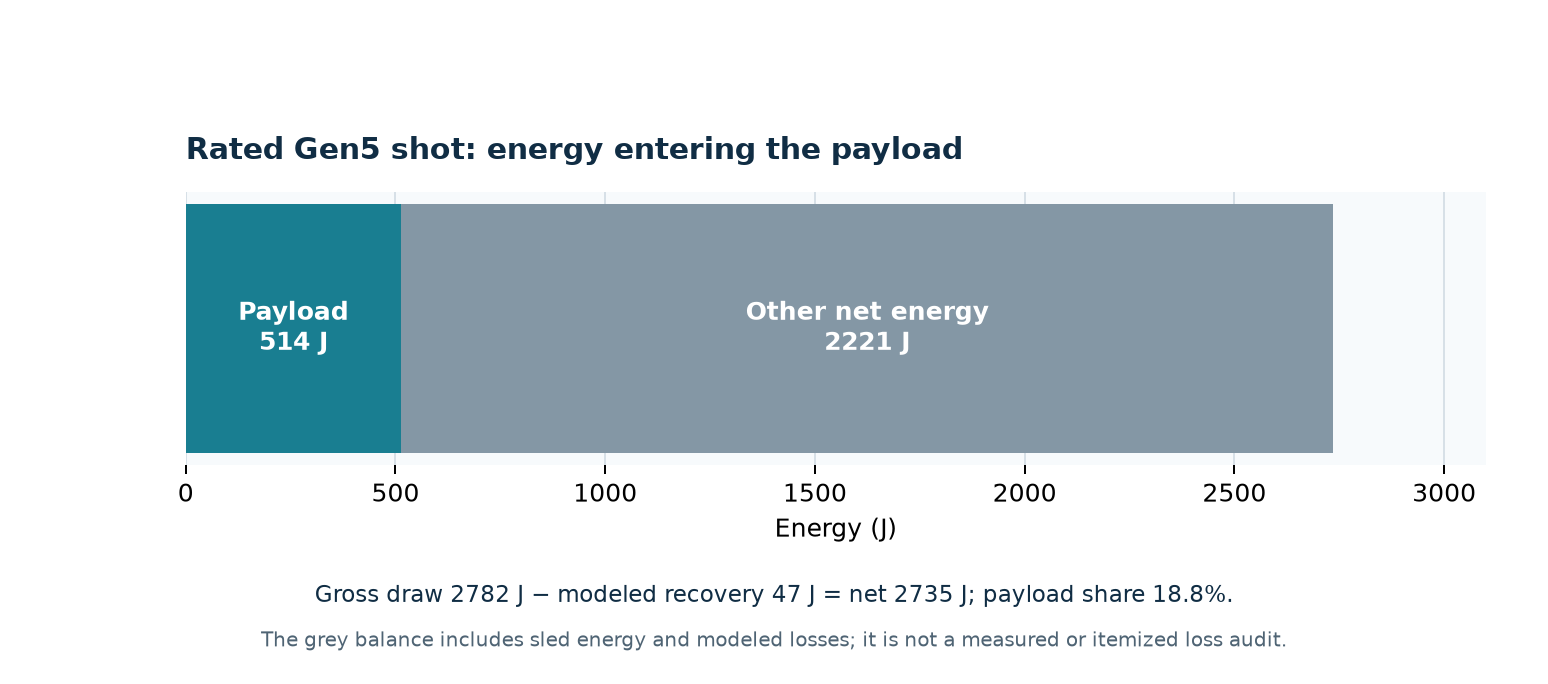
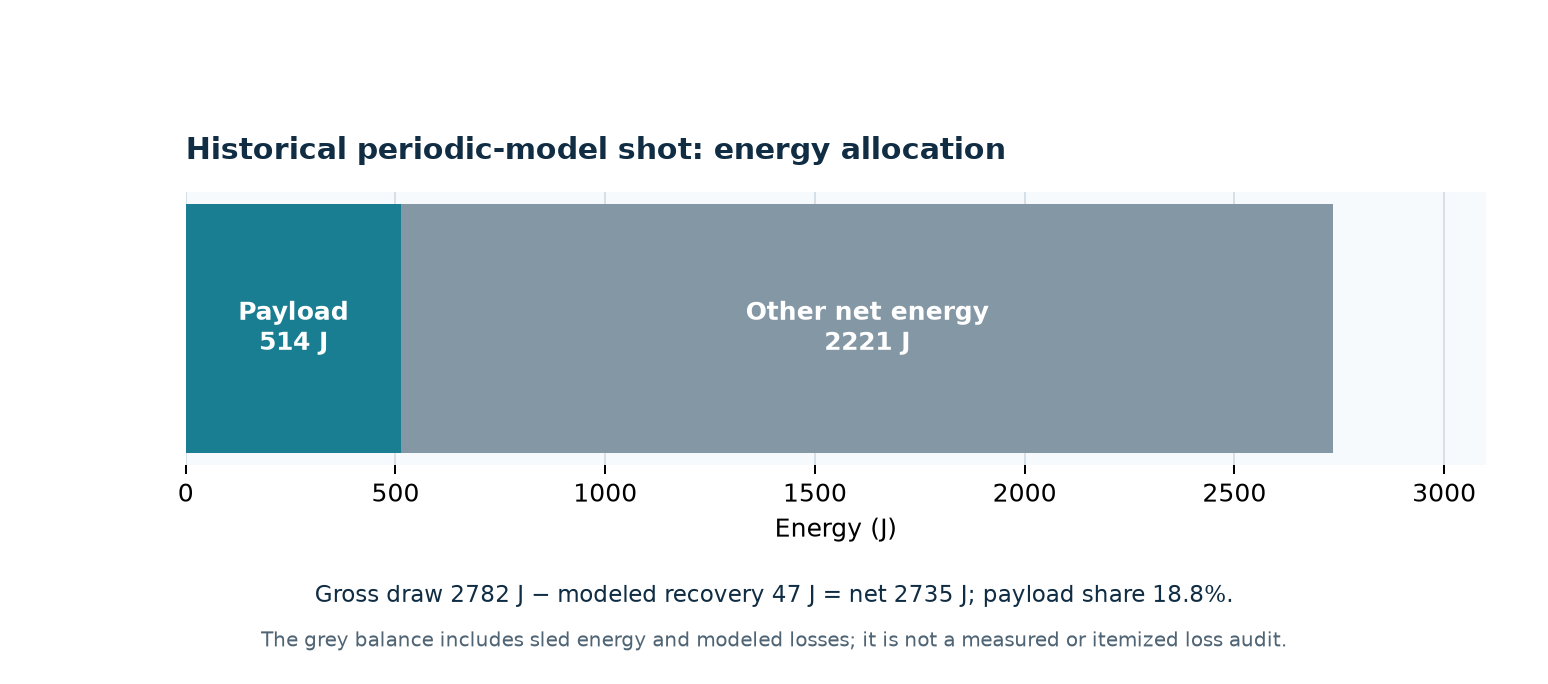
Publish four-repository audit and correct historical energy figure

Changed region(s): [[0.124, 0.1842, 0.6512, 0.2456]]

diff --git a/tools/plot_gen5_decision.py b/tools/plot_gen5_decision.py
@@ -68,9 +68,9 @@ def energy_accounting():
     fig, ax = plt.subplots(figsize=(8.6, 3.8), dpi=160)
     fig.patch.set_facecolor("white")
     ax.set_facecolor("#f7fafc")
-    ax.barh(["Energy per rated shot"], [payload], color="#197e91", height=0.48,
+    ax.barh(["Historical model shot"], [payload], color="#197e91", height=0.48,
             label="Payload kinetic energy")
-    ax.barh(["Energy per rated shot"], [other], left=[payload], color="#8497a5",
+    ax.barh(["Historical model shot"], [other], left=[payload], color="#8497a5",
             height=0.48, label="Other net energy")
     ax.text(payload/2, 0, f"Payload\n{payload:.0f} J", ha="center", va="center",
             color="white", fontweight="bold")
@@ -79,7 +79,7 @@ def energy_accounting():
     ax.set_xlim(0, 3100)
     ax.set_yticks([])
     ax.set_xlabel("Energy (J)")
-    ax.set_title("Rated Gen5 shot: energy entering the payload",
+    ax.set_title("Historical periodic-model shot: energy allocation",
                  loc="left", pad=13, fontweight="bold", color="#102d44")
     ax.grid(axis="x", color="#d7e0e7", lw=0.8)
     ax.set_axisbelow(True)

diff --git a/docs/FOUR_REPO_AUDIT_2026-10-09.md b/docs/FOUR_REPO_AUDIT_2026-10-09.md
@@ -1,0 +1,87 @@
+# VOLLEY four-repository audit and adversarial review
+
+**Date:** 9 October 2026 (India time). **Status:** self-review, not an external professor's grade, peer review, provider approval or qualification. The scoring below estimates how two demanding readers might react to the *published evidence*, not to work planned for later.
+
+## Scope and method
+
+I examined the published `main` branches of VOLLEY, VOLLEY-paper, VOLLEY-thesis and VOLLEY-lab. Together they held **2,069 tracked files** before this cleanup. Automated line-level checks covered the tracked Markdown, Python, LaTeX, JSON, shell and workflow files: approximately **818,000 source lines**. I manually inspected the four front pages, the paper's abstract, methods, decisive results, limitations and conclusions, the college report and review deck, market/prior-art positioning, CAD and validation summaries, and the scripts/results behind the central speed, mass and mission numbers. An automated pass over every line does **not** mean every historical line received independent scientific judgment.
+
+The flagship's full local verification entry point passed **148 tests** and its documentation, baseline, result-freshness, artifact and companion gates in the prepared pinned environment. VOLLEY-lab's own gate initially failed because the new R1 entry was absent from its registry; the registry and heading were corrected and the gate passed. The paper and thesis had no independent current-surface CI; a dependency-light gate now checks their current local links, manuscript figures, decisive captured-result identities, artifact hashes and PDF/ZIP containers. It cannot replace physical tests or independent force FEM.
+
+The current reader routes pass **78 local links and 22 manuscript figures** in VOLLEY-paper, and **192 local links and 22 manuscript figures** in VOLLEY-thesis. A broader heuristic scan still found **188 unresolved references in paper historical Markdown** and **486 in thesis historical/copied Markdown**, concentrated in copied validation sheets and the long thesis appendix. Many point to former flagship paths. These are archive-navigation debt, not evidence that a presently cited result file is missing; they prevent calling the entire historical corpus link-clean. Current academic claims should cite the local P115–P118 records and result files, not those broken historical links.
+
+The decisive trace is local: [finite force](../validation/P118_gen5_finite_force_map.md), [energy and mass identities](../validation/P117_rated_energy_mass_audit.md), [assembly fit](../validation/P116_gen5_assembly_packaging.md), [immediate orbit geometry](../validation/P115_rated_orbit_cartesian.md), [matched mission](MATCHED_MISSION_REFERENCE.md), [mass JSON](../analysis/results/mass_properties.json), [native CAD](../cad/native/Gen5_Review.FCStd) and [unselected R1](../cad/FEEDER_CANDIDATE_R1.md). The corrected academic sources are the [paper manuscript](https://github.com/aaaaaaaaaaaavm/VOLLEY-paper/blob/main/paper/paper.tex) and [college report](https://github.com/aaaaaaaaaaaavm/VOLLEY-thesis/blob/main/university/GEN5_FINAL_YEAR_REPORT.md).
+
+## Findings by severity and disposition
+
+| ID | Severity | What a reviewer finds | Current action or required closure |
+|:--|:--|:--|:--|
+| A1 | **Critical to performance claims** | The historical periodic-force model predicts 16.029 m/s. A finite-position 3-D **analytic** screen gives 1.042 kJ ideal work and 12.448 m/s only with optimal phase and omitted circuit/friction losses. It shares the magnetic field law with the older model. | Paper abstract, result heading/caption, thesis report and energy chart now identify the older case as historical. Independent position-dependent integrated-force FEM and a coupled circuit/trajectory rerun are still open. Neither speed is a verified rating. |
+| A2 | **Critical to design selection** | The modeled dry system is 126.6 kg, or 10.55 kg per 3U. It fails the internal 2 kg screen by about 5.3× and the approximate 6 kg canister comparison by about 1.76×. The latter comparator is not a supplier quote. | Preserve both separate decision boundaries. Redesign and remeasure the *complete* installed system before asserting parity or economic value. |
+| A3 | **Critical to mechanical feasibility** | The evaluated side-fed track and cassettes need 537 mm within 526 mm usable width; exact solids overlap by 32,915 mm³ per cassette. The wider R1 route study lacks actuation, retention, tolerances, mass and provider fit. | Keep R1 unselected. Select one feeder and analyze the full moving envelope, launch restraint, jam/abort and release contact before changing the Gen5 verdict. |
+| A4 | **Critical to mission value** | The bounded common-input twelve-shot screen closes no option: accepted prefixes are 4/12 spring, 1/12 finite Gen5 and 1/12 historical Gen5. A single-event ideal-propellant comparison is favorable to the assumed finite Gen5 speed, but that speed is an ideal screen and no installed service benefit follows. | Rerun a selected architecture against spring plus host maneuver, onboard propulsion/drag and orbital transport at the same epoch, payload, deadline and uncertainty. |
+| A5 | **High: academic framing** | The old paper abstract and figures foregrounded a challenged speed; the thesis report called a historical shot “rated” without an immediate caveat. | Reworded the abstract, result heading, captions, report and figure so the adverse screen arrives before any claim of current performance. PDFs rebuilt. The 17-page manuscript is IEEE-formatted only; no venue is selected. |
+| A6 | **High: evidence boundary** | No VOLLEY article, named satellite/host interface, measured thrust, feeder cycle, magnetic-cleanliness test or provider approval exists. Field-point agreement is not an independent integrated-thrust check. | All remain open. Published tests of other deployers support methods and comparison, never physical validation of VOLLEY. |
+| A7 | **Medium: repository hygiene** | The VOLLEY-lab R1 record broke its own namespace gate; three extra remote branches contradicted the one-branch rule. | Lab gate fixed. The three extra branches were inspected against later `main` content and removed; each remote now retains `main` alone. |
+| A8 | **Medium: independent reader route** | The paper build guide still described evidence as generated by the flagship and pointed to a nonexistent local figure command. Paper/thesis had no own integrity CI. | Build guide corrected; figure command now syncs manuscript figure copies. New local checks and CI protect current front pages and artifacts. Historical copied links remain a separate backlog. |
+| A9 | **Medium: college submission** | The 16-page chaptered report is a review draft; no official college report template or signature/authorship declaration was supplied. The deck and report name two students; the IEEE draft names one. | Keep actual contributions unstated pending the students' own statement. Apply official format and signatures if required by the institution. Do not invent individual work. |
+| A10 | **Medium: IEEE contribution** | Programmable electromagnetic separation and stacked transport are prior art, including Zhao *et al.* (2022). Several closest leads remain metadata/abstract-only. | Frame the contribution as a bounded installed-system feasibility result, obtain full texts, and make a fair quantitative comparison before venue submission. |
+
+## Simulated college panel read
+
+**What earns credit:** a clear engineering question, a visible model chain, native CAD/STEP files, honest adverse findings, numerical cross-checks, a source map and a prepared 15-minute two-speaker route. The supplied college rubric awards 10 marks each for objectives and technical quality, 5 each for results/validation and documentation, and 10 for presentation/demonstration/viva. A functional physical prototype receives *additional recognition* in the supplied document; it is not stated as mandatory for those 40 marks.
+
+**Likely viva challenges:** “What did you actually validate?” “Which speed is your result?” “Why does a completed project contain a CAD clash?” “Why use a 2 kg target and a 6 kg comparator?” “Does your orbital calculation prove your motor?” “If both students present, who did which work?” “Where is the official thesis-format report?” Honest answers can defend a computational *study*. A claim of a completed product would be contradicted by the submitted evidence.
+
+| College criterion | Provisional mark | Reason |
+|:--|--:|:--|
+| Achievement of objectives | **7/10** | The analytical question has a recorded negative decision; build/qualification objectives cannot be claimed. |
+| Technical quality and innovation | **6/10** | Broad systems work and useful checks; central force and release mechanics remain unresolved, while related mechanisms predate VOLLEY. |
+| Results, validation and analysis | **2/5** | Several reproducible numerical checks and honest failures; no VOLLEY measurement and no independent integrated-force closure. |
+| Report and documentation | **4/5** | Strong traceability and presentation pack; draft college format and archive-link debt. |
+| Presentation, demonstration and viva | **7/10** | Achievable with the corrected deck and timed route; depends on actual delivery and precise answers. |
+| **Illustrative total** | **26/40 (6.5/10)** | **Not a predicted pass/fail decision.** The institution's pass threshold and panel judgment are unknown. |
+
+A strict panel focused on a functioning mechanism or an unreconciled 16 m/s claim could score lower. An examiner who values a carefully bounded negative computational result could score higher. The authors should lead with the discrepancy and failed criteria; concealing them would make the strongest part of the study look like an error caught by the panel.
+
+## Simulated IEEE reviewer read
+
+**Opinion:** the paper is promising as a transparent *negative system study*, but it is not ready for submission as a demonstrated programmable deployer. The direct electromagnetic prior art narrows novelty. The speed chain lacks an independent integrated-force method and the 3U configuration fails mass and CAD selection. The mission comparison is bounded, uses assumed hardware, and closes no manifest. A 17-page IEEEtran draft may exceed an eventual conference limit; no venue has been selected.
+
+| Scale | Current /10 | Main move toward 10 |
+|:--|--:|:--|
+| Problem relevance | **7** | Name one specific payload/host/mission and quantify the useful release-state requirement. |
+| Novelty against direct prior art | **4** | Complete full-text and patent search; articulate a testable system insight that prior deployers did not establish. |
+| Model credibility | **4** | Independent finite-force FEM, winding/circuit closure, uncertainty and mesh/time convergence, mechanism/contact models. |
+| Fair comparative evidence | **3** | Common-input springs, host maneuvers, propulsion/drag and transport, with real device masses and sensitivity. |
+| Reproducibility and source transparency | **6** | Keep local CI and exact run inputs; repair historical links, pin solvers and expose data/figure lineage. |
+| Venue submission readiness | **2** | Choose a venue, fit length and style, verify full texts, obtain independent technical review and resolve the main model discrepancy. |
+
+**Overall publication readiness: roughly 4/10.** This is a review rehearsal, not an acceptance probability. A credible paper could instead ask why an apparently attractive electromagnetic release fails after finite-length force, installed mass and mission closure are counted; that would require the checks above to be strong enough to trust the negative conclusion.
+
+## Simulated separation-mechanism engineer read
+
+**Opinion:** the evidence hygiene and willingness to retain failures are stronger than the hardware maturity. A supplier or integrator would not begin a flight accommodation on the current geometry. They would ask for a payload and provider interface document, a selected feeder and restraint load path, measured or independently solved force over the entire stroke, an actual power/thermal design, host reaction and fault handling, magnetic exposure, and repeated release tests. The current R1 STEP is inspectable geometry, not a functioning dispenser.
+
+| Engineering scale | Current /10 | First decisive closure |
+|:--|--:|:--|
+| Concept and requirements clarity | **6** | Select an actual reference mission, payload and host boundary. |
+| Magnetic drive and power | **3** | Independent integrated-force map, coupled transient circuit, component derating and energy closure. |
+| Feed, retention, release and arrest | **2** | Full mechanism CAD, moving-contact dynamics, failure recovery, brake heat and load paths. |
+| CAD/manufacturing definition | **3** | Fit/tolerance stack, drawings, BOM, CG/inertia, material and bought-item traceability. |
+| Mission and installed-system advantage | **2** | Close a matched campaign and demonstrate value after all installed mass, energy, operations and risk. |
+| Safety and flight qualification | **1** | Instrumented article, environment/cycle tests, payload/provider approvals and independent safety review. |
+| Evidence organization | **6** | Repair historical navigation and keep one controlled configuration/result/figure lineage. |
+
+**Overall engineering/product maturity: roughly 2–3/10.** This rating says nothing about the student's effort; it reflects how far the design is from a selectable flight product. Code, open-source solvers and CAD can raise analysis credibility. A value near 10 on *flight readiness* requires physical measurements, a qualified satellite and provider acceptance.
+
+## Ordered path to materially higher scores
+
+1. **For the 10 October college review:** use the corrected deck and one-page handout; explicitly label 16.029 m/s historical, 12.448 m/s an ideal analytic screen, and the CAD/mass findings as failures. Do one timed rehearsal and keep the evidence PDFs offline. Explain that Gen5 is a finished *reviewed question*, not a released machine.
+2. **Make the study internally decisive:** fix a named reference payload and host surrogate, independently solve position-dependent integrated thrust, combine force with winding/inverter/storage limits, close the 124.488 J energy remainder, and propagate uncertainty. Revise dependent speed, orbit, heat and control figures together.
+3. **Select a mechanically possible configuration:** model feed actuator, retention, opening sequence, cradle contact, tip-off, jams, abort/reset and brake. Export revisioned native CAD and STEP, drawings, tolerance stack, mass/CG/inertia and exact collision/motion reports. Rerun all budgets after selection.
+4. **Prove mission value on common inputs:** use competent spring canisters with actual impulse and mass, host maneuvers, spacecraft propulsion/drag and transport services. Include host impulse/attitude, power, delay, reliability and disposal; find at least one scenario where VOLLEY loses and one where it may win.
+5. **For an IEEE submission:** choose the venue, complete full-text and patent review, publish convergence/uncertainty tables and solver inputs, keep the paper's question narrow, obtain an independent technical read and meet page/format rules. A negative feasibility result is publishable only when the decisive models themselves are credible.
+6. **For a product:** build an instrumented coupon then a representative integrated test article; measure force, contact, release speed/rate, brake, thermal, EMI and cycles against predeclared bands. Qualify the named payload and host interface, then submit to provider and safety reviews. Gen6's 1 km/s is a separate architecture trade and must pass the same installed-system gates.
+
+The college can judge a computational investigation tomorrow. An aerospace company would judge a flight product only after the later gates. Keep those two decisions separate in every front page, slide and answer.

diff --git a/MARKET_AND_CUSTOMER_FIT.md b/MARKET_AND_CUSTOMER_FIT.md
@@ -1,6 +1,6 @@
 # Market and spacecraft fit — evidence review, 9 October 2026
 
-This is a decision aid for the **fixed Gen5 academic study** and a requirements input for **future Gen6 research**. It is not a total-addressable-market forecast, a customer endorsement, a priced business case or a compatibility certificate. No customer interview, supplier quotation, host agreement or flight payload has yet established demand for VOLLEY.
+This is a decision aid for the **evaluated Gen5 reference case** and a requirements input for **future Gen6 research**. It is not a total-addressable-market forecast, a customer endorsement, a priced business case or a compatibility certificate. No customer interview, supplier quotation, host agreement or flight payload has yet established demand for VOLLEY.
 
 ## What the evidence actually supports
 
@@ -24,7 +24,7 @@ The likely **economic buyer** is the party that commits to delivered orbital sta
 |:--|:--|:--|
 | **Replenishment batch:** repeated small EO, communications, environmental or sensing buses with several destinations from one host | May reduce per-spacecraft initial orbit-shaping burden if a carrier already makes common maneuvers | **Research case only.** Gen5’s modeled 12 × 3U mass is 10.547 kg/customer, outside the thesis’s ±15% parity band against the ~6 kg/customer spring comparator, and no sampled finite-burn case delivers all 12. No buyer has validated the requested states. |
 | **Mixed rideshare:** two to four qualified payloads needing different release states | Host plus programmed release could reduce sequential host moves in a narrow mission | **Open.** Customer interfaces, flight rules, timeline and conventional host-burn comparator are unknown. |
-| **Low-burden 3U spacecraft:** little or no propulsion for initial distribution, with a separate disposal/avoidance plan | A deployer might supply a useful initial orbit change without satellite propulsion hardware | **Conditional.** Current 3U model predicts 16.029 m/s but fails mass parity and has unresolved magnetic exposure and payload loads. Do not infer every 3U satellite is compatible. |
+| **Low-burden 3U spacecraft:** little or no propulsion for initial distribution, with a separate disposal/avoidance plan | A deployer might supply a useful initial orbit change without satellite propulsion hardware | **Conditional.** The historical 3U model predicts 16.029 m/s, challenged by a finite-geometry force screen; mass parity also fails and has unresolved magnetic exposure and payload loads. Do not infer every 3U satellite is compatible. |
 | **PocketQube-class batch:** many very small spacecraft | A shared mechanism could amortize fixed hardware across more payloads | **Future redesign case.** Gen5 volumetric and cell calculations suggest a lower mass/customer, but a qualified cassette, contacts, containment, release loads and customer mission do not exist. This is not a demonstrated Gen5 accommodation. |
 | **1U, ThinSat, 6U/12U or magnetic-sensitive payloads** | Some may value orbital state control | **No current product claim.** The designed 1U cell case still misses the 2 kg/customer screen; ThinSat and 12U fail the studied cell cross-section; larger classes require new geometry; modeled magnetic fields challenge payload compatibility. |
 | **Single spacecraft already near its required orbit; university safe-separation mission** | Usually needs safe release, not extra orbit shaping | **Poor fit.** A qualified conventional dispenser is the control case and should win unless a specific paid state requirement says otherwise. |
@@ -35,9 +35,9 @@ These are **mission classes**, not named sales prospects. The cited Planet and S
 
 Compare the **same** launch opportunity, host starting state, payload mass and interfaces, manifest, target states, deadline, disposal obligation and reliability boundary across: (A) qualified ordinary dispensers and actual separation impulse, (B) ordinary dispensers plus host maneuvers, (C) spacecraft propulsion, (D) an available orbital-transport service, and (E) host plus VOLLEY. Release timing alone from an unchanged host with zero relative impulse creates **no persistent co-orbital phase offset** at a common epoch; the historical 468-second/30-degree claim is withdrawn.
 
-Let `F` be VOLLEY’s extra fixed installed and integration burden over the best conventional option; `Iᵢ` its extra per-payload burden; `Bᵢ` each customer’s avoided cost or paid delivery value; `H` extra host propellant, power, recovery time and operations; and `R` incremental expected loss, including common-path failures. A positive case requires **ΣBᵢ > F + ΣIᵢ + H + R**. None of these terms has a defensible quoted value yet. The formula is a decision boundary, not a price prediction. The mass comparison already fails at the current 3U configuration, so a commercial case must earn that burden with a measured mission benefit or use a different architecture.
+Let `F` be VOLLEY’s extra fixed installed and integration burden over the best conventional option; `Iᵢ` its extra per-payload burden; `Bᵢ` each customer’s avoided cost or paid delivery value; `H` extra host propellant, power, recovery time and operations; and `R` incremental expected loss, including common-path failures. A positive case requires **ΣBᵢ > F + ΣIᵢ + H + R**. None of these terms has a defensible quoted value yet. The formula is a decision boundary, not a price prediction. The mass comparison already fails at the evaluated 3U configuration, so a commercial case must earn that burden with a measured mission benefit or use a different architecture.
 
-The Drive report suggests **roughly 5–50 m/s** as a future business *hypothesis*. This is **not** an achieved Gen5 command envelope, a customer requirement or a validated Gen6 design point. Gen5’s modeled rated shot is 16.029 m/s; its controllable range, complete manifest and host integration remain open. The **1 km/s-class** Gen6 upper objective is research, with ideal stroke, recoil, energy and payload-load costs that make it a different regime.
+The Drive report suggests **roughly 5–50 m/s** as a future business *hypothesis*. This is **not** an achieved Gen5 command envelope, a customer requirement or a validated Gen6 design point. Gen5’s historical periodic-model shot is 16.029 m/s and is challenged by finite geometry; its controllable range, complete manifest and host integration remain open. The **1 km/s-class** Gen6 upper objective is research, with ideal stroke, recoil, energy and payload-load costs that make it a different regime.
 
 ## Evidence needed before making a market claim
 

diff --git a/README.md b/README.md
@@ -2,7 +2,7 @@
 
 ### A computational design study for sequential CubeSat deployment
 
-VOLLEY studies a host-mounted electromagnetic machine that would feed ordinary 3U CubeSats through one reusable launch path and command an individual departure speed for each release. **Gen5 is the fixed academic design baseline.** Gen6 is a separate, future scaling programme toward a 1 km/s-class objective; it has no selected mechanism or validated performance.
+VOLLEY studies a host-mounted electromagnetic machine that would feed ordinary 3U CubeSats through one reusable launch path and command an individual departure speed for each release. **Gen5 is the controlled academic evaluation snapshot, with a negative 3U selection finding.** Its final engineering release and academic freeze are open. Gen6 is a separate, future architecture trade toward a 1 km/s-class objective; it has no selected mechanism or validated performance.
 
 ![Conceptual host and sequential departures](docs/assets/hero_departure.svg)
 
@@ -102,4 +102,4 @@ For **Gen6**, the 1 km/s-class goal is only a research target. Ideal constant-ac
 | [VOLLEY-paper](https://github.com/aaaaaaaaaaaavm/VOLLEY-paper) | Self-contained IEEE-formatted manuscript and reproducibility package; venue not yet selected |
 | [VOLLEY-lab](https://github.com/aaaaaaaaaaaavm/VOLLEY-lab) | Explored, rejected or gated alternative architectures and the reasons they stopped |
 
-**Reproduce and audit:** [verification entry point](tools/verify_all.sh) · [figure index](docs/FIGURE_INDEX.md) · [literature](docs/LITERATURE.md) · [prior art](docs/PRIOR_ART.md) · [change history](CHANGELOG.md). Review acceptance bands and failures before citing any headline number.
+**Reproduce and audit:** [verification entry point](tools/verify_all.sh) · [four-repository adversarial review](docs/FOUR_REPO_AUDIT_2026-10-09.md) · [figure index](docs/FIGURE_INDEX.md) · [literature](docs/LITERATURE.md) · [prior art](docs/PRIOR_ART.md) · [change history](CHANGELOG.md). Review acceptance bands and failures before citing any headline number.
